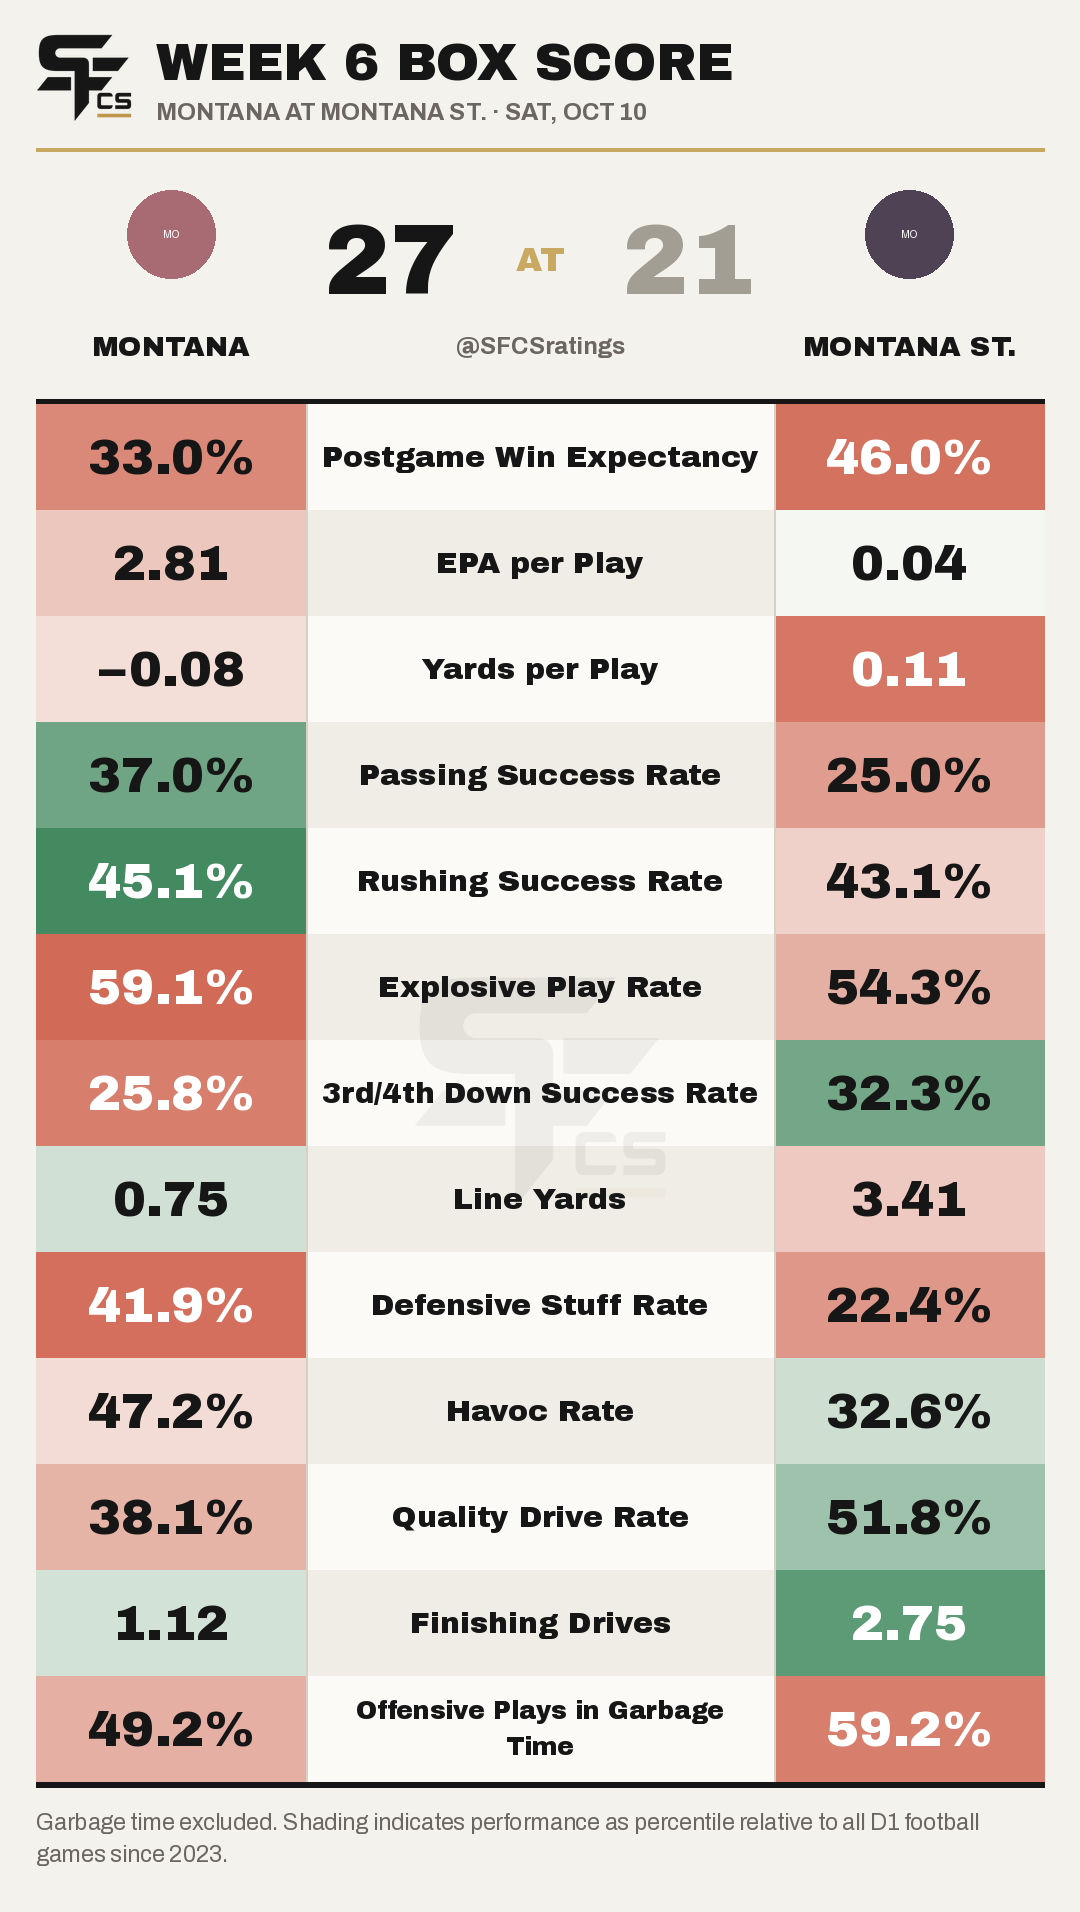
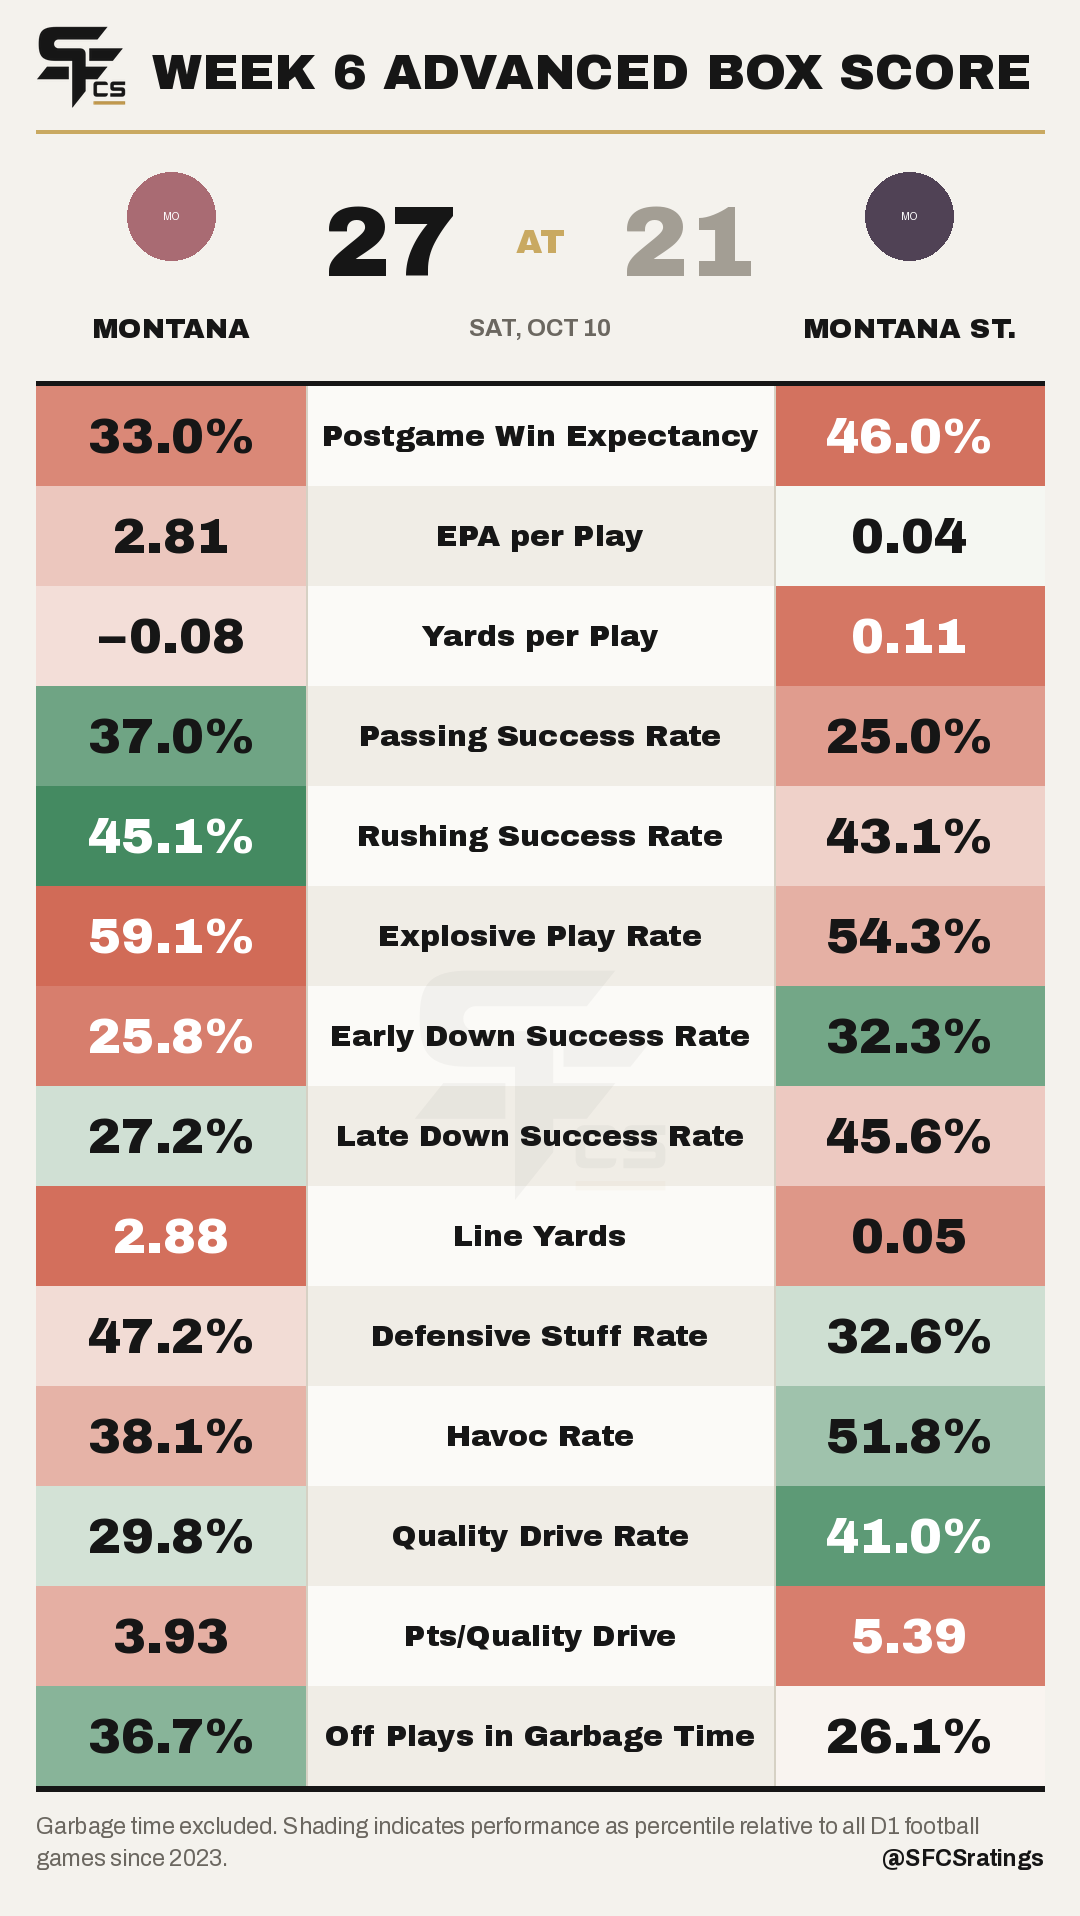
Box score: advanced title, early/late down rows, date under score
Title reads ADVANCED BOX SCORE; header matchup/date line removed, the date
now sits between the scores. Adds Early Down Success Rate, renames late
down and Pts/Quality Drive rows, shortens the garbage-time label, moves
@SFCSratings into the footnote, and lowers the watermark to 4%.

Claude-Session: https://claude.ai/code/session_01Gd4PPTq31PbPskqw7CwXXC

diff --git a/tools/box_scores.py b/tools/box_scores.py
@@ -76,9 +76,9 @@ INK, PAPER, CARD, ROW_ALT = "#161616", "#f4f2ed", "#fbfaf7", "#f0ede6"
 GOLD, MUTED, LINE = "#c9a961", "#6b6760", "#d6d1c4"
 BAD, MID, GOOD = (205, 92, 70), (251, 250, 247), (46, 125, 79)   # red - neutral - green
 
-# Credit, drawn between the two scores (hard to crop out).
+# Credit, drawn at the end of the footnote.
 HANDLE = "@SFCSratings"
-WATERMARK_OPACITY = 0.06   # SF|CS mark behind the stat-name column
+WATERMARK_OPACITY = 0.04   # SF|CS mark behind the stat-name column
 
 # Footer text (wording from the user).
 FOOTNOTE = ("Garbage time excluded. Shading indicates performance as percentile "
@@ -102,13 +102,14 @@ ROWS = [
     Row("pass_sr", "Passing Success Rate", "pct"),
     Row("rush_sr", "Rushing Success Rate", "pct"),
     Row("explosive_rate", "Explosive Play Rate", "pct"),
-    Row("late_down_sr", "3rd/4th Down Success Rate", "pct"),
+    Row("early_down_sr", "Early Down Success Rate", "pct"),
+    Row("late_down_sr", "Late Down Success Rate", "pct"),
     Row("line_yards", "Line Yards", "num2"),
     Row("def_stuff_rate", "Defensive Stuff Rate", "pct"),
     Row("havoc_rate", "Havoc Rate", "pct"),
     Row("quality_drive_rate", "Quality Drive Rate", "pct"),
-    Row("finishing_drives", "Finishing Drives", "num2"),
-    Row("garbage_share", "Offensive Plays in Garbage Time", "pct"),
+    Row("pts_per_quality_drive", "Pts/Quality Drive", "num2"),
+    Row("garbage_share", "Off Plays in Garbage Time", "pct"),
 ]
 
 # ===========================================================================
@@ -189,30 +190,29 @@ def render(game: dict, values: dict, colors: dict, out: Path):
 
     W, M = 1080, 36
     COL = 270                               # team value columns
-    ROW_H = 106
-    head_h, team_h = 168, 236
+    ROW_H = 100
+    head_h, team_h = 150, 236
     F = _font
 
-    reg = _font(FONTS_REGULAR, 23)
+    reg, bold = _font(FONTS_REGULAR, 23), _font(FONTS_BOLD, 23)
     foot_lines = _wrap(FOOTNOTE, reg, W - 2 * M)
-    foot_h = 40 + 32 * len(foot_lines) + 26
+    handle_w = bold.getlength(HANDLE)
+    handle_own_line = reg.getlength(foot_lines[-1]) + 30 + handle_w > W - 2 * M
+    foot_h = 40 + 32 * (len(foot_lines) + handle_own_line) + 26
     H = head_h + team_h + ROW_H * len(ROWS) + foot_h
     im = Image.new("RGB", (W, H), PAPER)
     d = ImageDraw.Draw(im)
 
-    # Compact title block: small mark left, title + matchup line, gold rule
+    # Compact title block: small mark left, title, gold rule
     if MARK.exists():
         mk = Image.open(MARK).convert("RGBA")
-        mk.thumbnail((96, 96), Image.LANCZOS)
-        im.paste(mk, (M, 34), mk)
+        mk.thumbnail((90, 90), Image.LANCZOS)
+        im.paste(mk, (M, 26), mk)
     at = "VS" if game["neutral"] else "AT"
-    tx = M + 120                             # text starts right of the mark
-    d.text((tx, 62), f"WEEK {game['week']} BOX SCORE", font=F(FONTS_HEAVY, 52), fill=INK, anchor="lm")
-    sub = f"{game['away'].upper()} {at} {game['home'].upper()} · {game['date_text']}"
-    if game["neutral"]:
-        sub += " · NEUTRAL SITE"
-    d.text((tx, 112), sub, font=_fit(sub, FONTS_BOLD, 24, W - M - tx, 16), fill=MUTED, anchor="lm")
-    d.rectangle((M, 148, W - M, 151), fill=GOLD)
+    tx = M + 116                             # title starts right of the mark
+    title = f"WEEK {game['week']} ADVANCED BOX SCORE"
+    d.text((tx, 72), title, font=_fit(title, FONTS_HEAVY, 52, W - M - tx, 30), fill=INK, anchor="lm")
+    d.rectangle((M, 130, W - M, 133), fill=GOLD)
 
     # Team header: logo + name in each value column, score beside it, AT/VS centered
     xl, xr = M, W - M - COL
@@ -229,7 +229,8 @@ def render(game: dict, values: dict, colors: dict, out: Path):
         d.text((sx, y + 92), str(int(mine)), font=F(FONTS_HEAVY, 100),
                fill=INK if mine >= theirs else "#a39e94", anchor="mm")
     d.text((cx, y + 92), at, font=F(FONTS_HEAVY, 34), fill=GOLD, anchor="mm")
-    d.text((cx, y + 178), HANDLE, font=_fit(HANDLE, FONTS_BOLD, 24, xc1 - xc0 - 190, 16), fill=MUTED, anchor="mm")
+    when = game["date_text"] + (" · NEUTRAL SITE" if game["neutral"] else "")
+    d.text((cx, y + 178), when, font=_fit(when, FONTS_BOLD, 24, xc1 - xc0 - 150, 16), fill=MUTED, anchor="mm")
     y += team_h
 
     # Rows
@@ -266,10 +267,12 @@ def render(game: dict, values: dict, colors: dict, out: Path):
     d.line((xc1, y, xc1, rows_bottom), fill=LINE, width=2)
     d.rectangle((M, rows_bottom, W - M, rows_bottom + 5), fill=INK)
 
-    # Footnote
+    # Footnote + credit (credit right-aligned on the last line, or its own line if it doesn't fit)
     y = rows_bottom + 40
     for n, line in enumerate(foot_lines):
         d.text((M, y + 32 * n), line, font=reg, fill=MUTED, anchor="lm")
+    hy = y + 32 * (len(foot_lines) - 1 + handle_own_line)
+    d.text((W - M, hy), HANDLE, font=bold, fill=INK, anchor="rm")
 
     out.parent.mkdir(parents=True, exist_ok=True)
     im.save(out, optimize=True)

diff --git a/docs/BOX_SCORES.md b/docs/BOX_SCORES.md
@@ -8,13 +8,13 @@
 [`tools/box_scores.py`](../tools/box_scores.py) draws one postgame box score PNG per FCS game (FCS-FCS and FBS-FCS)
 in SFCS house style. Preview: [`box_score_demo.png`](box_score_demo.png).
 - **Size:** 1080 × ~1910 px (about 9:16), so it fits a phone screen.
-- **Header:** a compact SFCS mark and title, then the logos with the final score beside each one. It reads "AT", or "VS" plus
-  "NEUTRAL SITE" at neutral sites.
-- **Credit:** "@SFCSratings" sits between the two scores (`HANDLE`), and a faint SF|CS watermark sits behind the stat-name
-  column (`WATERMARK_OPACITY`), so the credit can't be cropped off without cutting the score or the table. The teams, score, date and neutral flag come from `games_schedule_current.parquet`;
+- **Header:** a compact SFCS mark and "WEEK N ADVANCED BOX SCORE", then the logos with the final score beside each one.
+  Between the scores: "AT" (or "VS" at neutral sites) and the game date (plus "NEUTRAL SITE" when it applies).
+- **Credit:** "@SFCSratings" at the end of the footnote (`HANDLE`), plus a faint SF|CS watermark behind the stat-name
+  column (`WATERMARK_OPACITY`, 4%) that can't be cropped off without cutting the table. The teams, score, date and neutral flag come from `games_schedule_current.parquet`;
   logos come from `team_brand.parquet`.
-- **Rows** (the user's list): PGWE, EPA/play, yards/play, passing SR, rushing SR, explosive play rate, 3rd/4th down SR,
-  line yards, defensive stuff rate, havoc rate, quality drive rate, finishing drives, offensive plays in garbage time.
+- **Rows** (the user's list): PGWE, EPA/play, yards/play, passing SR, rushing SR, explosive play rate, early down SR,
+  late down SR, line yards, defensive stuff rate, havoc rate, quality drive rate, pts/quality drive, off plays in garbage time.
 - **Cells:** each shows the value, with the background shaded red → green by a color position **you supply**.
   The percentile isn't printed.
 - **Output:** `dashboards/week<P>_db/box_scores/box_score_<contest_id>_wk<P>.png`, where the website already looks.
@@ -31,8 +31,8 @@ A table, one row per team per game:
 | `<key>` | the value to print. Rates as 0–1 (`0.412` prints as `41.2%`); others print with 2 decimals |
 | `<key>_pct` | 0–100 color position, **100 = best for that team** (you handle "lower is better" stats). Blank = unshaded |
 
-Keys: `pgwe, epa_play, yards_play, pass_sr, rush_sr, explosive_rate, late_down_sr, line_yards, def_stuff_rate,
-havoc_rate, quality_drive_rate, finishing_drives, garbage_share`.
+Keys: `pgwe, epa_play, yards_play, pass_sr, rush_sr, explosive_rate, early_down_sr, late_down_sr, line_yards,
+def_stuff_rate, havoc_rate, quality_drive_rate, pts_per_quality_drive, garbage_share`.
 
 - **Where it reads from:** set `STATS_INPUT` to wherever the table lives. `{week}` is filled in, e.g.
   `DASHBOARDS / "week{week}_db" / "box_score_stats_wk{week}.parquet"`. Parquet or CSV both work.
